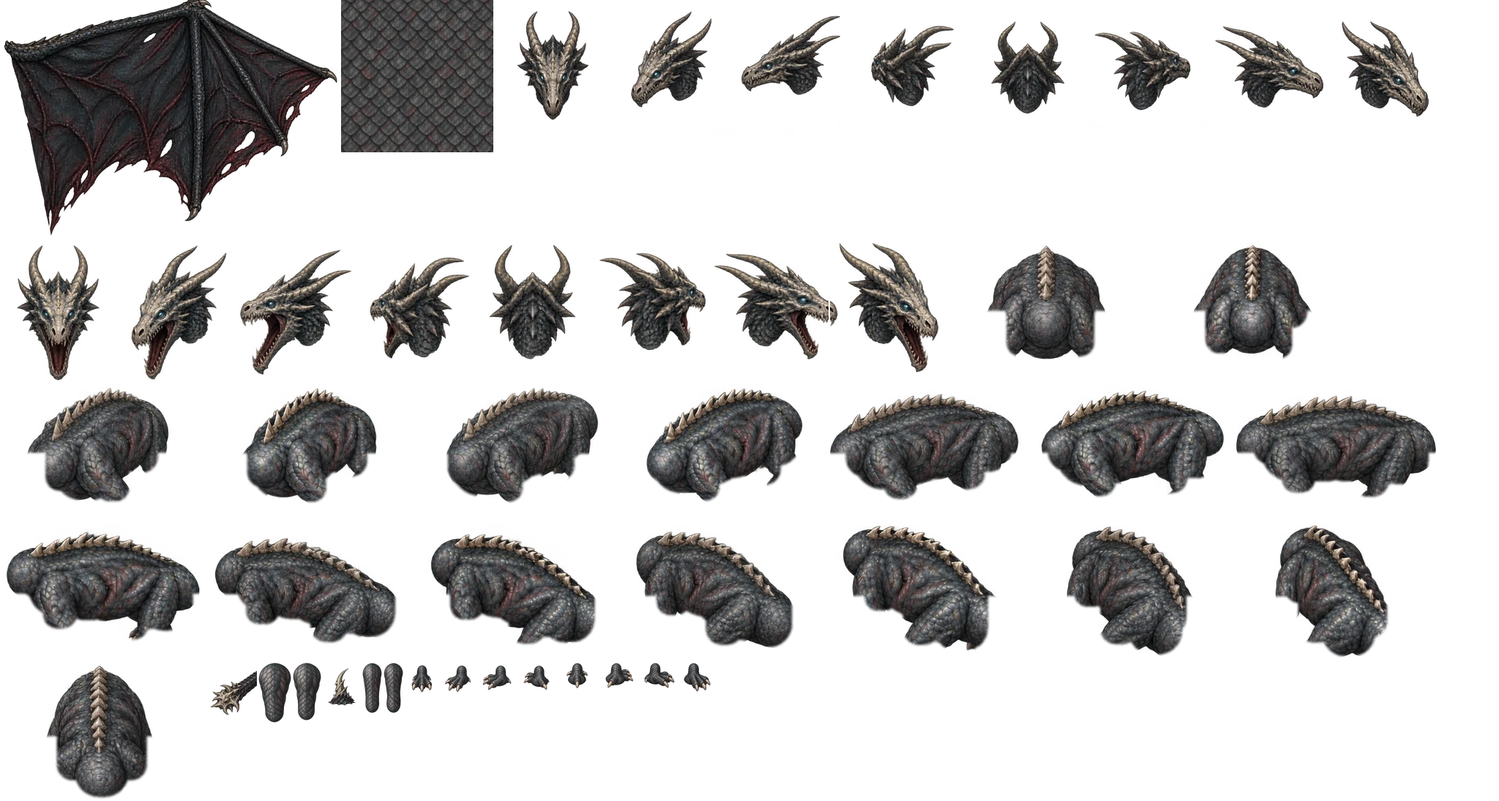
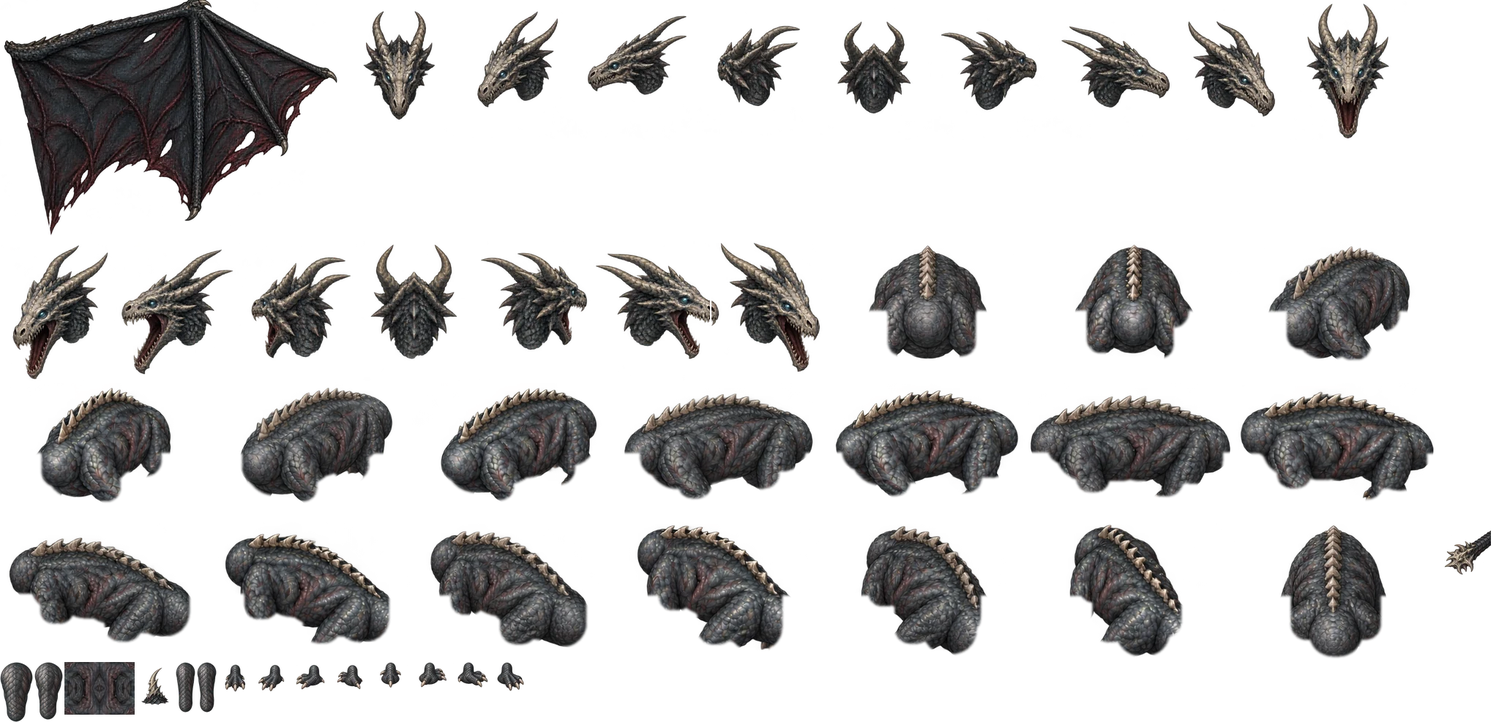
Dungeon crawler v105: the dragon's neck and tail keep the mirrored scales, with a leg-like sheen
The flat painted scale texture looked too clean on the neck and tail nodes; the
mirrored flank patch, whose symmetry makes each node look rounded, is back. The
nodes are now shaded like the painted leg bones: the lit side's scales glint
(soft-light), a faint cool shine, the far side and rim in shadow.

Claude-Session: https://claude.ai/code/session_01NpeYW1GQYFj7mfiknbPYwQ

diff --git a/martin/dungeon-crawler-01/index.html b/martin/dungeon-crawler-01/index.html
@@ -417,7 +417,7 @@ const DIR_ROW = [0, 7, 6, 5, 4, 3, 2, 1];      // screen sector (S,SE,E,NE,N,NW,
 const $ = id => document.getElementById(id);
 // Game version, shown muted at the bottom right of the title screen. Increment it before every push, so a player
 // can tell whether the page is up to date (and regenerate catalog.html, see README).
-const VERSION = 104;
+const VERSION = 105;
 const rnd = Math.random;
 const ri = (a, b) => a + Math.floor(rnd() * (b - a + 1));
 const pick = a => a[Math.floor(rnd() * a.length)];
@@ -1109,7 +1109,7 @@ const dirOf = (dx, dy) => { const o = { dir: 0 }; setDir(o, dx, dy); return o.di
 const dgLerp = (a, b, t) => a + (b - a) * t, dgEase = u => u * u * (3 - 2 * u);
 const dgWrap = a => { while (a > Math.PI) a -= 2 * Math.PI; while (a < -Math.PI) a += 2 * Math.PI; return a; };
 // dragon-art:start
-const DRAGON_ART = {"body":{"w":279,"h":189,"anchor":[139.2,156.7],"dirs":32,"rects":[[1296,330,279,189],[1577,330,279,189],[0,523,279,189],[281,523,279,189],[562,523,279,189],[843,523,279,189],[1124,523,279,189],[1405,523,279,189],[1686,523,279,189],[0,714,279,189],[281,714,279,189],[562,714,279,189],[843,714,279,189],[1124,714,279,189],[1405,714,279,189],[1686,714,279,189],[0,905,279,189]]},"limbs":[{"name":"front upper","len":44,"top":[18.7,19.9],"bottom":[18.7,63.9],"rect":[400,905,39,79]},{"name":"front lower","len":42,"top":[14.0,13.4],"bottom":[14.0,55.4],"rect":[495,905,27,69]},{"name":"hind upper","len":44,"top":[21.9,22.0],"bottom":[21.9,66.0],"rect":[353,905,45,82]},{"name":"hind lower","len":42,"top":[13.9,12.9],"bottom":[13.9,54.9],"rect":[524,905,27,69]}],"foot":{"w":51,"h":41,"anchor":[23.4,26.4],"ankle":16,"rects":[[553,905,51,41],[606,905,51,41],[659,905,51,41],[712,905,51,41],[765,905,51,41],[818,905,51,41],[871,905,51,41],[924,905,51,41]]},"head":{"w":160,"h":191,"z":72,"anchor":[[80.0,174.1],[80.0,174.1],[80.0,174.1],[80.0,174.1],[80.0,174.1],[80.0,174.1],[80.0,174.1],[80.0,174.1]],"closed":[[676,0,160,191],[838,0,160,191],[1000,0,160,191],[1162,0,160,191],[1324,0,160,191],[1486,0,160,191],[1648,0,160,191],[1810,0,160,191]],"open":[[0,330,160,191],[162,330,160,191],[324,330,160,191],[486,330,160,191],[648,330,160,191],[810,330,160,191],[972,330,160,191],[1134,330,160,191]]},"wing":{"points":[[13.3,70.3],[146.3,38.7],[273.0,13.3],[444.0,102.0],[380.7,203.3],[266.7,292.0],[70.3,323.7]],"panels":[[0,1,2,3],[2,3,4],[2,4,5],[2,5,6,0]],"rect":[0,0,464,328]},"spike":{"w":52,"h":70,"rect":[441,905,52,70]},"club":{"w":70,"h":90,"note":"points left; the tail joins at the right edge","rect":[281,905,70,90]},"scales":{"w":208,"h":208,"res":2,"rect":[466,0,208,208]},"tone":{"mean":[69.0,67.3,67.6],"sd":[27.4,26.1,25.7]}};
+const DRAGON_ART = {"body":{"w":279,"h":189,"anchor":[139.2,156.7],"dirs":32,"rects":[[1134,330,279,189],[1415,330,279,189],[1696,330,279,189],[0,523,279,189],[281,523,279,189],[562,523,279,189],[843,523,279,189],[1124,523,279,189],[1405,523,279,189],[1686,523,279,189],[0,714,279,189],[281,714,279,189],[562,714,279,189],[843,714,279,189],[1124,714,279,189],[1405,714,279,189],[1686,714,279,189]]},"limbs":[{"name":"front upper","len":44,"top":[18.7,19.9],"bottom":[18.7,63.9],"rect":[47,905,39,79]},{"name":"front lower","len":42,"top":[14.0,13.4],"bottom":[14.0,55.4],"rect":[240,905,27,69]},{"name":"hind upper","len":44,"top":[21.9,22.0],"bottom":[21.9,66.0],"rect":[0,905,45,82]},{"name":"hind lower","len":42,"top":[13.9,12.9],"bottom":[13.9,54.9],"rect":[269,905,27,69]}],"foot":{"w":51,"h":41,"anchor":[23.4,26.4],"ankle":16,"rects":[[298,905,51,41],[351,905,51,41],[404,905,51,41],[457,905,51,41],[510,905,51,41],[563,905,51,41],[616,905,51,41],[669,905,51,41]]},"head":{"w":160,"h":191,"z":72,"anchor":[[80.0,174.1],[80.0,174.1],[80.0,174.1],[80.0,174.1],[80.0,174.1],[80.0,174.1],[80.0,174.1],[80.0,174.1]],"closed":[[466,0,160,191],[628,0,160,191],[790,0,160,191],[952,0,160,191],[1114,0,160,191],[1276,0,160,191],[1438,0,160,191],[1600,0,160,191]],"open":[[1762,0,160,191],[0,330,160,191],[162,330,160,191],[324,330,160,191],[486,330,160,191],[648,330,160,191],[810,330,160,191],[972,330,160,191]]},"wing":{"points":[[13.3,70.3],[146.3,38.7],[273.0,13.3],[444.0,102.0],[380.7,203.3],[266.7,292.0],[70.3,323.7]],"panels":[[0,1,2,3],[2,3,4],[2,4,5],[2,5,6,0]],"rect":[0,0,464,328]},"spike":{"w":52,"h":70,"rect":[186,905,52,70]},"club":{"w":70,"h":90,"note":"points left; the tail joins at the right edge","rect":[1967,714,70,90]},"scales":{"w":96,"h":72,"rect":[88,905,96,72]},"tone":{"mean":[69.0,67.3,67.6],"sd":[27.4,26.1,25.7]}};
 // dragon-art:end
 let dragonArt = null;   // loading: a promise
 function loadDragonArt() {
@@ -1378,10 +1378,8 @@ function dragonLoot(m, rd) {
 }
 // ---- drawing (the painted crypt dragon: art/characters/dragon, assets/dragon.webp)
 let DG_SCALES = null;
-// the neck and tail's scales: a texture painted flat, tiling, stored at DRAGON_ART.scales.res × the game's scale; laid
-// along the spine (the scales' free edges toward the tail), as big as the body painting's at the torso and a little
-// smaller toward the head and the tail tip
-const dgScaleM = (x, y, ang, R) => new DOMMatrix().translate(x, y).rotate(ang * 180 / Math.PI + 90).scale(DRAGON.size / DRAGON_ART.scales.res * (0.7 + 0.3 * Math.min(1, R / 49)));
+// the neck and tail's scales: a flank patch of the old walk painting mirrored 2 × 2, tiling (its mirror symmetry
+// makes each node look rounded); scaled with each node
 function dgScalePat() {
   if (!DG_SCALES) { const r = DRAGON_ART.scales.rect, c = document.createElement('canvas'); c.width = r[2]; c.height = r[3]; c.getContext('2d').drawImage(IMG.dragon, r[0], r[1], r[2], r[3], 0, 0, r[2], r[3]); DG_SCALES = ctx.createPattern(c, 'repeat'); }
   return DG_SCALES;
@@ -1392,25 +1390,41 @@ function dgOver(m, q, path) {   // a hit flash and the darkening of death over a
   const dk = q ? q.dk || 0 : 0; if (dk > 0) { path(); ctx.fillStyle = `rgba(10,4,3,${dk * 0.45})`; ctx.fill(); }
 }
 function dgS3(x, y, z) { const [X, Y] = iso(x, y); return [X, Y - z]; }
-function dgBlob(m, x, y, R, q, ang = 0) {
-  const p = dgScalePat(); p.setTransform(dgScaleM(x, y, ang, R));
+// The neck and tail's shading, like the painted leg bones': the lit side's scales glint (white in 'soft-light', which
+// brightens the light scale tops more than the dark gaps), and the far side and the rim fall into shadow.
+function dgSheen(path, g, h) {   // g: the glint ('soft-light'); h: a faint cool shine over it ('screen')
+  ctx.save(); path(); ctx.globalCompositeOperation = 'soft-light'; ctx.fillStyle = g; ctx.fill();
+  ctx.globalCompositeOperation = 'screen'; ctx.fillStyle = h; ctx.fill(); ctx.restore();
+}
+const dgShine = (g, stops) => { for (const [t, a] of stops) g.addColorStop(t, `rgba(150,170,200,${a * DG_SHINE})`); return g; };
+function dgBlob(m, x, y, R, q) {
+  const p = dgScalePat(); p.setTransform(new DOMMatrix().translate(x, y).scale(R / 40));
   const path = () => { ctx.beginPath(); ctx.arc(x, y, R, 0, 7); };
   path(); ctx.fillStyle = p; ctx.fill();
-  const g = ctx.createRadialGradient(x - R * 0.35, y - R * 0.45, R * 0.1, x, y, R * 1.05);
-  g.addColorStop(0, 'rgba(225,230,240,0.14)'); g.addColorStop(0.6, 'rgba(0,0,0,0)'); g.addColorStop(1, 'rgba(0,0,0,0.38)');   // a soft rim, so the nodes merge
+  const s = ctx.createRadialGradient(x - R * 0.3, y - R * 0.35, 0, x - R * 0.3, y - R * 0.35, R * 0.95);
+  s.addColorStop(0, `rgba(255,255,255,${DG_SHEEN})`); s.addColorStop(0.5, `rgba(255,255,255,${DG_SHEEN * 0.35})`); s.addColorStop(1, 'rgba(255,255,255,0)');
+  dgSheen(path, s, dgShine(ctx.createRadialGradient(x - R * 0.3, y - R * 0.35, 0, x - R * 0.3, y - R * 0.35, R * 0.9), [[0, 1], [0.5, 0.4], [1, 0]]));
+  const g = ctx.createRadialGradient(x - R * 0.2, y - R * 0.25, R * 0.3, x, y, R * 1.05);
+  g.addColorStop(0, 'rgba(0,0,0,0)'); g.addColorStop(0.6, 'rgba(0,0,0,0.12)'); g.addColorStop(1, 'rgba(0,0,0,0.6)');
   path(); ctx.fillStyle = g; ctx.fill(); dgOver(m, q, path);
 }
 function dgBand(m, a, b) {   // the body between two nodes: a quad along their tangents
   const [ax, ay] = dgS3(a.x, a.y, a.z), [bx, by] = dgS3(b.x, b.y, b.z), dx = bx - ax, dy = by - ay, l = Math.hypot(dx, dy);
   if (l < 1) return;
-  const nx = -dy / l, ny = dx / l, ra = a.R * 0.93, rb = b.R * 0.93, up = ny < 0;
+  let nx = -dy / l, ny = dx / l; if (ny > 0) { nx = -nx; ny = -ny; }   // n: toward the lit (upper) side
+  const ra = a.R * 0.93, rb = b.R * 0.93;
   const path = () => { ctx.beginPath(); ctx.moveTo(ax + nx * ra, ay + ny * ra); ctx.lineTo(bx + nx * rb, by + ny * rb); ctx.lineTo(bx - nx * rb, by - ny * rb); ctx.lineTo(ax - nx * ra, ay - ny * ra); ctx.closePath(); };
-  const p = dgScalePat(); p.setTransform(dgScaleM(ax, ay, Math.atan2(dy, dx), a.R));
+  const p = dgScalePat(); p.setTransform(new DOMMatrix().translate(ax, ay).rotate(Math.atan2(dy, dx) * 180 / Math.PI).scale(a.R / 40));
   path(); ctx.fillStyle = p; ctx.fill();
-  const g = ctx.createLinearGradient(ax + nx * ra, ay + ny * ra, ax - nx * ra, ay - ny * ra);
-  g.addColorStop(0, up ? 'rgba(225,230,240,0.14)' : 'rgba(0,0,0,0.45)'); g.addColorStop(0.45, 'rgba(0,0,0,0.05)'); g.addColorStop(1, up ? 'rgba(0,0,0,0.45)' : 'rgba(225,230,240,0.14)');
+  const x0 = ax + nx * ra, y0 = ay + ny * ra, x1 = ax - nx * ra, y1 = ay - ny * ra;   // across it, from the lit edge to the dark one
+  const s = ctx.createLinearGradient(x0, y0, x1, y1);
+  s.addColorStop(0, `rgba(255,255,255,${DG_SHEEN * 0.2})`); s.addColorStop(0.3, `rgba(255,255,255,${DG_SHEEN})`); s.addColorStop(0.65, `rgba(255,255,255,${DG_SHEEN * 0.1})`); s.addColorStop(1, 'rgba(255,255,255,0)');
+  dgSheen(path, s, dgShine(ctx.createLinearGradient(x0, y0, x1, y1), [[0, 0.2], [0.3, 1], [0.65, 0.1], [1, 0]]));
+  const g = ctx.createLinearGradient(x0, y0, x1, y1);
+  g.addColorStop(0, 'rgba(0,0,0,0.3)'); g.addColorStop(0.2, 'rgba(0,0,0,0)'); g.addColorStop(0.55, 'rgba(0,0,0,0.08)'); g.addColorStop(1, 'rgba(0,0,0,0.6)');
   path(); ctx.fillStyle = g; ctx.fill(); dgOver(m, a, path);
 }
+const DG_SHEEN = 1, DG_SHINE = 0.07;   // how strongly the lit scales glint ('soft-light'), and the cool shine on them
 function dgPiece(m, r, x, y, w, h, q, flip) {   // an atlas piece, flashed white when hit
   ctx.save(); ctx.translate(x, y); if (flip) ctx.scale(-1, 1);
   ctx.drawImage(IMG.dragon, r[0], r[1], r[2], r[3], 0, 0, w, h);
@@ -1422,8 +1436,8 @@ function dgNode(m, i) {
   if (i === 0) return dgHead(m, q);
   if (i === n.length - 1) return dgClub(m, q, n[i - 1]);
   dgBand(m, q, n[i - 1]);
-  const [x, y] = dgS3(q.x, q.y, q.z), [px, py] = dgS3(n[i - 1].x, n[i - 1].y, n[i - 1].z);
-  dgBlob(m, x, y, q.R, q, Math.atan2(py - y, px - x));
+  const [x, y] = dgS3(q.x, q.y, q.z);
+  dgBlob(m, x, y, q.R, q);
   if (i >= 2 && i < n.length - 3) {   // a bone spike on top, leaning toward the tail
     const f = dgDir(m, i), back = (f[0] - f[1]) > 0, A = DRAGON_ART.spike, hh = Math.max(10, q.R * 0.95), w = A.w / A.h * hh;
     dgPiece(m, A.rect, back ? x + w * 0.45 : x - w * 0.55, y - q.R * 0.72 - hh, w, hh, null, back);

diff --git a/martin/dungeon-crawler-01/tools/dragon/build_assets.py b/martin/dungeon-crawler-01/tools/dragon/build_assets.py
@@ -16,16 +16,16 @@ What goes in (all at the game's own scale, 1 atlas px = 1 screen px at zoom 1 an
 - wing: paint/wing.png (the right wing, flat), cut to its guide's bone points plus a margin, at 1/3; `points` are the
   bone points (root, elbow, wrist, 3 finger tips, trailing root) inside that image, for mapping it onto the panels.
 - spike, club: the two pieces of paint/bits.png (the dorsal spike, the tail club pointing left).
-- scales: paint/scales.tile.png (the body's scales painted flat and made to tile, tools/dragon/scale_tile.py), 8 scales
-  across at 13 px each (as big as the body painting's), stored at 2x (`res`): the neck and tail's texture.
-- tone: the body views, the leg bones, the feet and the scales are brought to one colour: the hide's pixels (luminance
+- scales: a patch of the old walk painting's flank (SW, frame 0), mirrored 2 x 2 so it tiles (the symmetry makes each
+  neck and tail node look rounded): their texture, left as painted.
+- tone: the body views, the leg bones and the feet are brought to one colour: the hide's pixels (luminance
   under 130; the pale bone of spikes and claws, over 180, is left as it is, blended between) get the per-channel mean
   and spread of all the body views' hide together (two passes, since the hide pixels change), so the body keeps its
-  shade as it turns and the parts match it; the scales, painted flat, get the mean and 0.6 of the spread.
+  shade as it turns and the parts match it.
 """
 import json, os, re
 import numpy as np
-from PIL import Image
+from PIL import Image, ImageOps
 
 HERE = os.path.dirname(os.path.abspath(__file__))
 PROJ = os.path.join(HERE, '..', '..')
@@ -51,7 +51,6 @@ def union_box(ims, pad=4, w=CW, h=CH):
             min(w, max(b[2] for b in boxes) + pad), min(h, max(b[3] for b in boxes) + pad))
 
 
-SCALES = {'n': 8, 'px': 13, 'sd': 0.6}
 HIDE = (130, 180)   # luminance: below the first, scaled hide; above the second, bone (spikes, claws), left alone
 
 
@@ -143,18 +142,18 @@ def main():
     meta['spike'] = {'w': spike.width, 'h': spike.height}
     meta['club'] = {'w': club.width, 'h': club.height, 'note': 'points left; the tail joins at the right edge'}
 
-    # the scales: the flat painted texture, tiling (tools/dragon/scale_tile.py), at 2x the game's scale: SCALES.n scales
-    # across of SCALES.px each, as big as the body painting's
-    t = Image.open(os.path.join(ART, 'paint', 'scales.tile.png')).convert('RGBA')
-    tile = t.resize((SCALES['n'] * SCALES['px'] * 2,) * 2, Image.LANCZOS)
-    pieces.append((('scales',), tile)); meta['scales'] = {'w': tile.width, 'h': tile.height, 'res': 2}
+    # the scales: a flank patch of the old walk painting (SW, frame 0), mirrored 2 x 2 so it tiles: the neck and tail's
+    # texture (its mirror symmetry makes each node look rounded)
+    p = Image.open(os.path.join(ART, 'paint', 'attempts', 'walk', 'SW.png')).convert('RGBA').crop((192, 176, 256, 224))
+    tile = Image.new('RGBA', (p.width * 2, p.height * 2))
+    tile.paste(p, (0, 0)); tile.paste(ImageOps.mirror(p), (p.width, 0)); tile.paste(ImageOps.flip(p), (0, p.height)); tile.paste(ImageOps.flip(ImageOps.mirror(p)), (p.width, p.height))
+    tile = scaled(tile, 0.75)
+    pieces.append((('scales',), tile)); meta['scales'] = {'w': tile.width, 'h': tile.height}
 
-    # one shade: every body view, leg bone, foot and the neck and tail's scales to the body views' pooled statistics
+    # one shade: every body view, leg bone and foot to the body views' pooled statistics
     pool = np.concatenate([hide_px(im) for key, im in pieces if key[0] == 'body'])
     mu, sd = pool.mean(0), pool.std(0)
     pieces = [(key, tone(tone(im, mu, sd), mu, sd) if key[0] in ('body', 'limb', 'foot') else im) for key, im in pieces]
-    # the scales are painted flat (the game shades the neck and tail), so they get the mean but only SCALES.sd of the spread
-    pieces = [(key, tone(tone(im, mu, sd * SCALES['sd']), mu, sd * SCALES['sd']) if key[0] == 'scales' else im) for key, im in pieces]
     meta['tone'] = {'mean': [round(float(v), 1) for v in mu], 'sd': [round(float(v), 1) for v in sd]}
 
     # pack: shelves, tallest first

diff --git a/martin/dungeon-crawler-01/README.md b/martin/dungeon-crawler-01/README.md
@@ -33,12 +33,11 @@ synthesised with Web Audio, so all of that works either way. Any other local ser
 | `art/characters/hero-4/` | Source art of the **woodsman** look (`assets/hero4.webp`), laid out like `hero-3/`: `character.json`, `description.txt`, `reference/` (`reference.png` = candidate 1; `round-1/` = all three candidates with prompts and `designs.json`, also the scout's origin), `paint/<DIR>.png` + `<DIR>.prompt.txt`. |
 | `art/characters/hero-5/` | Source art of the **scout** look (`assets/hero5.webp`): candidate 2 of `hero-4/`'s reference round, made its own character. `character.json`, `description.txt`, `reference/reference.png`, `paint/<DIR>.png` + `<DIR>.prompt.txt`. |
 | `art/characters/hero/3d/` | The hero as a 3D model instead of AI-painted frames: `build_knight.py` generates a skinned knight on the `sprite-animation` skill's Quaternius UAL1 mannequin skeleton (plate fitted to the mannequin by ray casts; procedural helm, pauldrons, belt, tassets, mail skirt and cape; EU 43 feet like the guides) and writes `knight.glb` (skeleton, all 43 mocap clips, three extra `cape_*` bones; `render_guide.py`'s `Rig` loads it too) plus `knight.txt` (the same, gzip + base64, for the viewer; not committed). `index.html` is the viewer, published as an [Artifact](https://claude.ai/artifact/626EuKeoCVR5LeKRMRfbuR): orbit, clip picker, the 8 game camera angles (orthographic, 30°), an in-game-size preview and a cape that swings clear of the legs and arms. Test shots: `index.html?dir=NW&t=0.25&clip=Walk_Loop`. |
-| `art/characters/dragon/` | Source art of the dragon boss (`todo.md` #17; nothing here is loaded by the game): `reference/game-style-refs.png` (the style reference: frames of the demon, spider, ghoul, hero and skeleton), `reference/concept-1..3.png` (three candidate designs painted from it; 2, the crypt dragon, was chosen), `reference/round-2/candidate-1..2.png` (it redrawn in the game camera; 2 approved, copied to `reference/reference.png`), `guide/` (painting guides from `tools/dragon/render_guides.js`), `paint/<part>.png` + `<part>.prompt.txt` (the painted parts: `body16.png`, the body standing on whole legs in 9 directions (S, SSW, SW, WSW, W, WNW, NW, NNW, N, i.e. directions 0, 2 … 16 of 32; 3 × 3 cells), and `body32.png`, the 8 halfway between them (1, 3 … 15; painted with `body16.png` as the reference, so they match it), and `body16.cut.png`, `body32.cut.png`, the same with the lower legs cut off; `limbs.png`, the four leg bones upright; `feet.png`, a clawed foot in 8 directions; `head.png` and `headopen.png`, 8 directions, mouth closed and open; `wing.png`, the right wing flat over `guide/wing.png`; `bits.png`, a bone spike and the tail club; `scales.png`, the body's scales painted flat, and `scales.tile.png`, made to tile) and `paint/attempts/` (rejected or superseded tries, among them `walk/`, the earlier body walking on painted legs, 8 frames for S, SW, W, NW, N, whose legs hardly strode, and `body16-1.png`, the body painted without legs: a grub), `prototype-atlas.webp` (the earlier atlas with that walk, which `dragon-prototype.html` still uses), `character.json` (prompts, model, decisions, spend, status). |
+| `art/characters/dragon/` | Source art of the dragon boss (`todo.md` #17; nothing here is loaded by the game): `reference/game-style-refs.png` (the style reference: frames of the demon, spider, ghoul, hero and skeleton), `reference/concept-1..3.png` (three candidate designs painted from it; 2, the crypt dragon, was chosen), `reference/round-2/candidate-1..2.png` (it redrawn in the game camera; 2 approved, copied to `reference/reference.png`), `guide/` (painting guides from `tools/dragon/render_guides.js`), `paint/<part>.png` + `<part>.prompt.txt` (the painted parts: `body16.png`, the body standing on whole legs in 9 directions (S, SSW, SW, WSW, W, WNW, NW, NNW, N, i.e. directions 0, 2 … 16 of 32; 3 × 3 cells), and `body32.png`, the 8 halfway between them (1, 3 … 15; painted with `body16.png` as the reference, so they match it), and `body16.cut.png`, `body32.cut.png`, the same with the lower legs cut off; `limbs.png`, the four leg bones upright; `feet.png`, a clawed foot in 8 directions; `head.png` and `headopen.png`, 8 directions, mouth closed and open; `wing.png`, the right wing flat over `guide/wing.png`; `bits.png`, a bone spike and the tail club) and `paint/attempts/` (rejected or superseded tries, among them `walk/`, the earlier body walking on painted legs, 8 frames for S, SW, W, NW, N, whose legs hardly strode, `body16-1.png`, the body painted without legs: a grub, and `scales.png`, a flat scale texture for the neck and tail, which looked too clean and flat on them), `prototype-atlas.webp` (the earlier atlas with that walk, which `dragon-prototype.html` still uses), `character.json` (prompts, model, decisions, spend, status). |
 | `tools/dragon/render_guides.js` | Renders the dragon's painting guides from `dragon-prototype.html`'s own placeholder body (Playwright, `file://`): the torso and the head (mouth closed and open) in the 8 game directions, 4 × 2 cells of 384 × 512 on white, so the painted parts fit the prototype; writes `art/characters/dragon/guide/<part>.png` and `guides.json` (cell size, scale, and each cell's anchor: the ground point under the part). With `body16`: the body standing still, headings π/4 + i × π/16 for i = 0, 2 … 16 (S to N; the game mirrors the other directions; `body32` renders the odd i = 1 … 15 the same way into `guide/body32.png`, `body32.full.png`, `body32.json`, the 9th cell empty), in 3 × 3 cells of 512 × 341 at ×1.3, both with whole legs (`guide/body16.full.png`, painted over: the image model paints a real dragon over legs, and a grub over a trunk without them) and with only a shoulder or haunch knob where each leg joins (`guide/body16.png`, the mask for cutting the legs off); the four leg bones upright, top joint up, ×7 (`guide/limbs.png`: front upper and lower, hind upper and lower, tapered: widths 0.8 → 0.55, 0.55 → 0.4, 0.95 → 0.58 and 0.56 → 0.4 × the shoulders' or hips' node R, 44 and 42 px long); a clawed foot (three toes, a back toe, the ankle rising 16 px) in the 8 directions, ×5.95 (`guide/feet.png`); and `guide/body16.json` (cells, scales, anchors, the bones' joints). The legs stand where the game's IK puts them at rest. |
 | `tools/dragon/wing_guide.py` | Draws the guide for painting the wing flat: the prototype's spread right wing from above (bone points, grey membrane), `art/characters/dragon/guide/wing.png` and `wing.json` (the bone points in pixels). |
-| `tools/dragon/build_assets.py` | Builds `assets/dragon.webp` and `assets/dragon.json` from the paintings: the legless body (`paint/body16.cut.png` and `body32.cut.png` merged into 17 directions of 32, guide scale 1.3 → 1) and the heads (2.4 → 1) each cut to one box shared by all their views, with the anchor (the ground point under the torso centre, or under the head node with the head 72 px up); the four leg bones (7 → 1), each cut to its content, with its two joints inside the piece; the feet (5.95 → 1, 8 directions, one box, anchored at the ankle's ground point); the wing (⅓, with its bone points); the spike and club from `paint/bits.png`; the neck and tail's scale texture (`paint/scales.tile.png`, 8 scales across at 13 px each, as big as the body's, stored at 2×); then one shade for the body and its parts: the hide pixels (luminance under 130; the pale bone of spikes and claws, over 180, is left alone, blended between) of every body view, leg bone and foot get the per-channel mean and spread of all the body views' hide together (two passes), so the body keeps its shade as it turns and the legs match it, and the flat-painted scales get that mean and 0.6 of the spread (the game shades the neck and tail); shelf-packed into a 2048 px wide atlas. Writes the layout into `index.html` between `// dragon-art:start` and `// dragon-art:end`. |
+| `tools/dragon/build_assets.py` | Builds `assets/dragon.webp` and `assets/dragon.json` from the paintings: the legless body (`paint/body16.cut.png` and `body32.cut.png` merged into 17 directions of 32, guide scale 1.3 → 1) and the heads (2.4 → 1) each cut to one box shared by all their views, with the anchor (the ground point under the torso centre, or under the head node with the head 72 px up); the four leg bones (7 → 1), each cut to its content, with its two joints inside the piece; the feet (5.95 → 1, 8 directions, one box, anchored at the ankle's ground point); the wing (⅓, with its bone points); the spike and club from `paint/bits.png`; a flank patch of the old SW walk painting mirrored 2 × 2 into a tiling scale texture for the neck and tail (its mirror symmetry makes each node look rounded); then one shade for the body and its parts: the hide pixels (luminance under 130; the pale bone of spikes and claws, over 180, is left alone, blended between) of every body view, leg bone and foot get the per-channel mean and spread of all the body views' hide together (two passes), so the body keeps its shade as it turns and the legs match it; shelf-packed into a 2048 px wide atlas. Writes the layout into `index.html` between `// dragon-art:start` and `// dragon-art:end`. |
 | `tools/dragon/cut_body.py` | Cuts the painted legs off the dragon's body: `python tools/dragon/cut_body.py body16` (or `body32`) keeps `paint/body16.png` inside the knobbed body's outline of `guide/body16.png` grown 5 px and softened 2 px, plus everything above that outline's lower edge in each column (the painted back and spikes stand higher than the guide's) and the upper half of each view whole (the painting is a little wider); writes `paint/body16.cut.png`; skips an empty cell. |
-| `tools/dragon/scale_tile.py` | Makes the neck and tail's scale texture tile: `paint/scales.png` (the body's scales painted flat, from a flank of `paint/body16.png`) repeats every 85.5 px (found by autocorrelation), so a crop of 8 periods (684 px) nearly tiles; the leftover mismatch at its edges is hidden by blending in the crop shifted half a tile within 40 px of each edge. Writes `paint/scales.tile.png`. |
 | `tools/raw/cast_design1.png`, `cast_design2.png` | The cast's front-view design sheets (4 × 1 each, on magenta). |
 | `assets/spider.webp`, `wraith.webp`, `demon.webp` | 8-direction × 4-frame monster sprite sheets (transparent). |
 | `assets/items.webp` | 6 × 8 atlas of 96 px item icons (`ATLAS_W` × `ATLAS_H`; rows 1–4 from `process_art.py`, rows 5–8 from `add_items.py`). |
@@ -1438,9 +1437,10 @@ the art: `assets/dragon.webp` and its layout `DRAGON_ART`, written into `index.h
   the painted upper bone from the hip to the knee and the lower bone from the knee to the ankle (`dgBone`: each
   upright piece rotated onto its two joints on screen and stretched to their distance, so it foreshortens), the head as a
   sprite per direction of its facing, mouth open while the jaw is over half open, the neck and tail nodes as spheres
-  and bands filled with the scale texture (`dgScaleM`: laid along the spine, the scales' free edges toward the tail, as big as
-  the body's at the torso and down to 0.7 × toward the head and the tail tip) under a light-to-dark shading with a soft
-  rim (so the nodes merge into one neck or tail), a bone spike on each, the tail
+  and bands filled with the scale texture (scaled with each node; the bands' turned along the spine) and shaded like
+  the painted leg bones (`dgSheen`, `DG_SHEEN`, `DG_SHINE`): the lit upper-left side's scales glint (white in
+  `soft-light`, which lifts the light scale tops more than the dark gaps, plus a faint cool `screen` shine), and the
+  far side and the rim fall into shadow (up to 60 % black), a bone spike on each, the tail
   club at the tip, and each of the 4 panels of each wing as the flat painted wing mapped onto it triangle by triangle
   (folded at rest, spread and flapped by its attacks). A hit or the hover brightens a part (the body and the legs
 together); dying, the body and the legs darken (`dgSprite` darkens a piece on a small canvas of its own, so only
